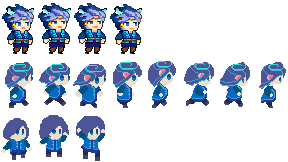
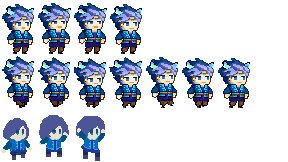
update

Changed region(s): [[0.0, 0.3395, 1.0, 0.679]]

diff --git a/core/src/main/java/pama1234/gdx/game/state/state0001/game/player/PlayerController.java b/core/src/main/java/pama1234/gdx/game/state/state0001/game/player/PlayerController.java
@@ -140,7 +140,9 @@ public class PlayerController extends Entity<Screen0011>{
     updatePickItem();
     p.cam.point.des.set(player.cx(),player.cy());
     float ty=player.point.vel.y;
-    if(player.displayState==2) {
+    if(player.displayState==1) {
+      player.timeStep=1/UtilMath.abs(player.point.vel.x);
+    }else if(player.displayState==2) {
       if(ty<0) player.frameTime=0;
       else if(ty<8) player.frameTime=1;
       else player.frameTime=2;
@@ -163,7 +165,7 @@ public class PlayerController extends Entity<Screen0011>{
       player.frameTime=0;
       player.displayState=2;
     }else if(walking) {
-      player.timeStep=(1/8f)/speedMult;
+      player.timeStep=(1/16f)/speedMult;
       player.frameTime=0;
       player.displayState=1;
     }else {

diff --git a/core/src/main/java/pama1234/gdx/game/state/state0001/game/player/Player.java b/core/src/main/java/pama1234/gdx/game/state/state0001/game/player/Player.java
@@ -33,7 +33,7 @@ public class Player extends TextureLivingEntity{
       dy=-h;
     }
     public PlayerType(MetaCreatureCenter0001 pc,int id) {
-      super(pc,"player",id,32,new TextureRegion[][] {new TextureRegion[4],new TextureRegion[8],new TextureRegion[3]});
+      super(pc,"player",id,32,new TextureRegion[][] {new TextureRegion[4],new TextureRegion[7],new TextureRegion[3]});
     }
     @Override
     public void init() {
